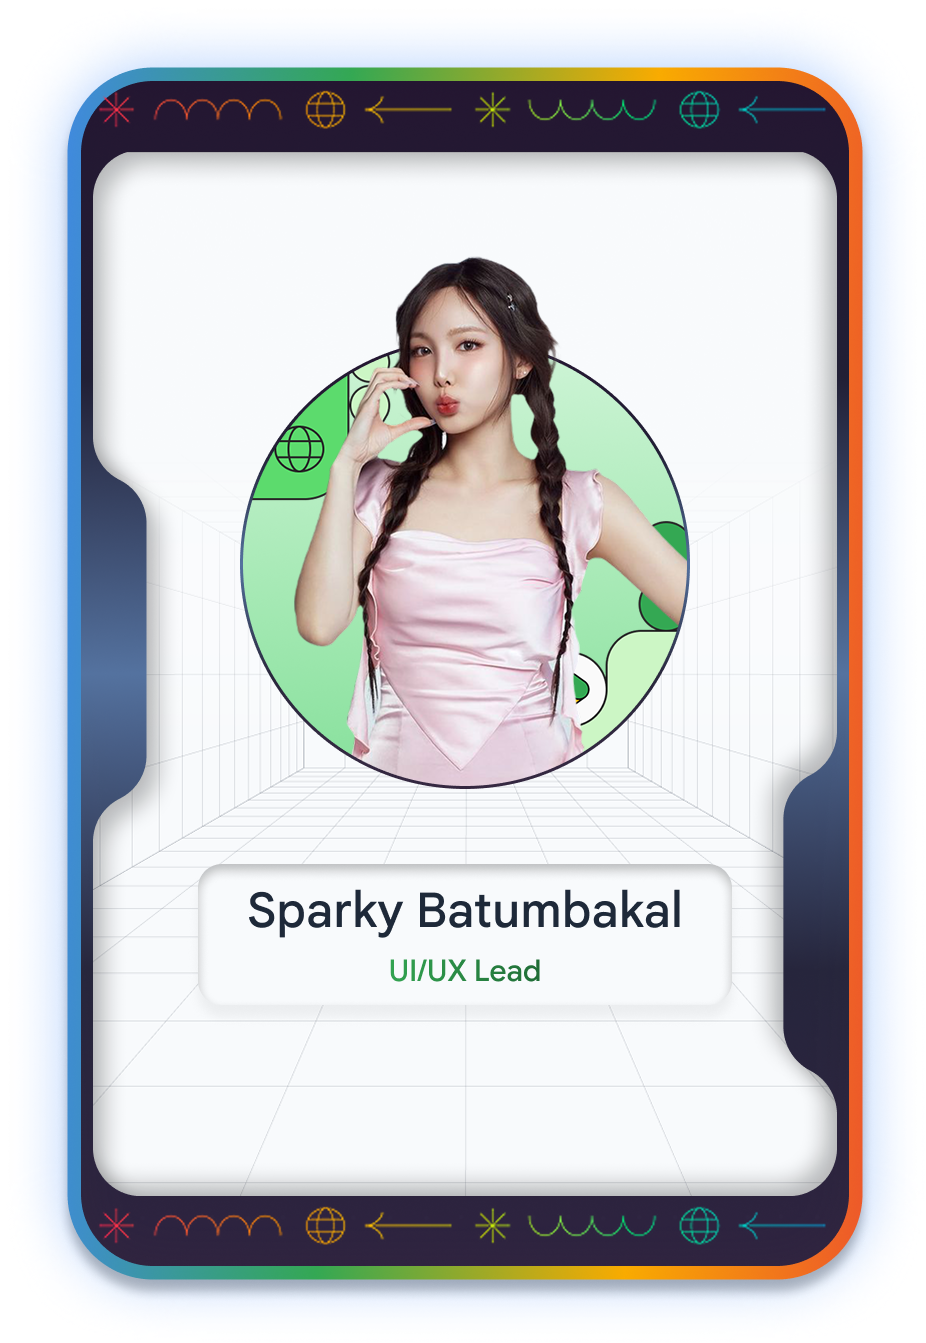
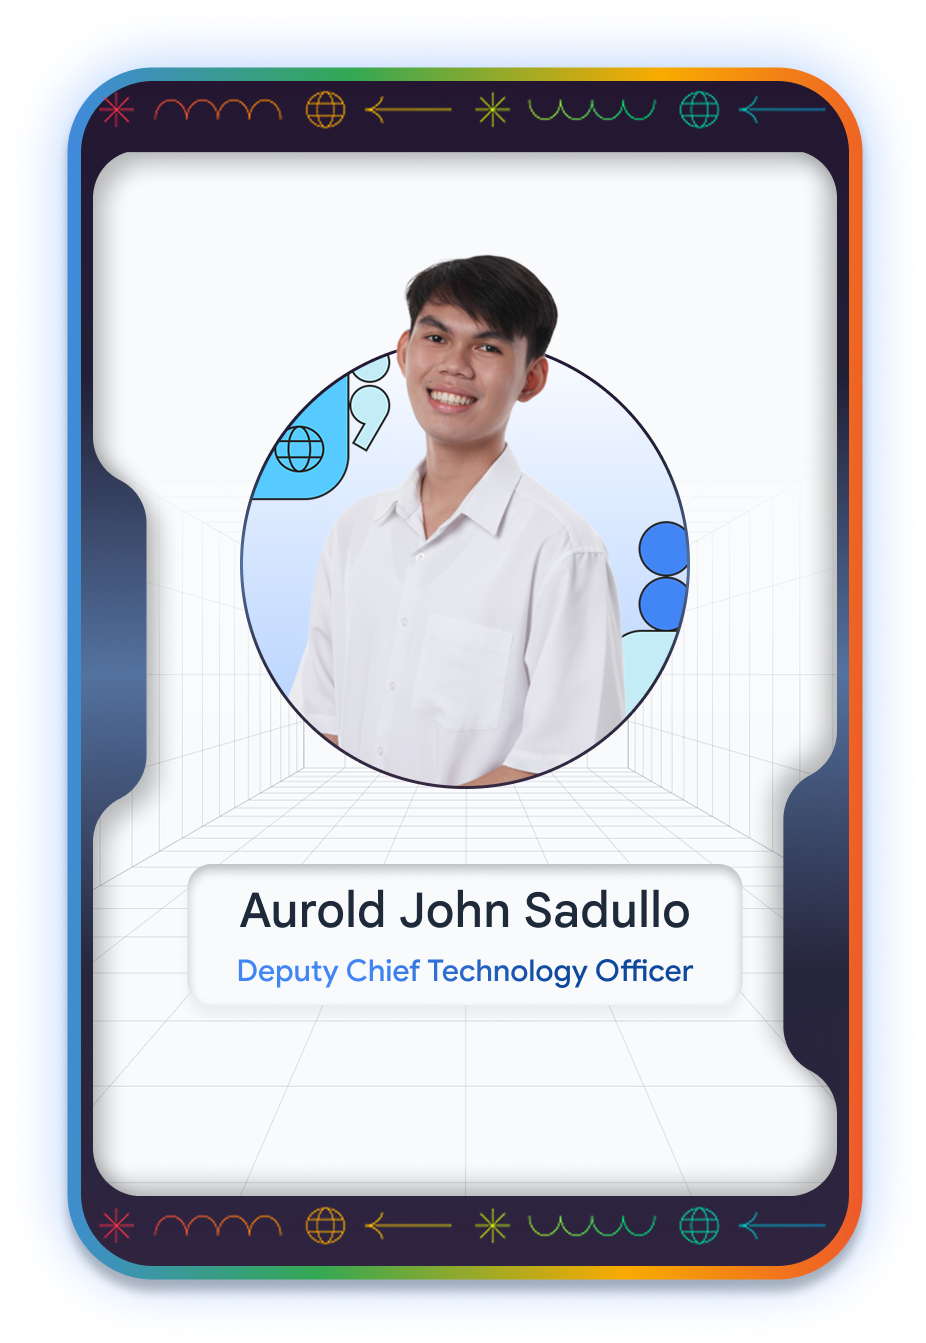
release v1.0 (#107)
* #75 updated coming soon page (#91)

closes #75

* #77 updated the footer (#89)

closes #77

* #66 updated the navbar (#86)

closes #66

* #78 button style (#92)

* #78 added transition between color change

* #78 smaller x-padding and darken shadow from top

* changed button text style

* removed bold text

* adjusted radial sheen

* #79 #75 #76 #77 adjustments (#93)

* #79 about page issues. note complete

* #79 glow on title on desktop. spacing from top. size of title on mobile

* fixed sparky awkward position on coming soon page

* id page sizing

* fixed sizing of card. fixed inset bg on name box. fixed bolding on info below

* fixed footer

* fixed card sizing again

* animation on comingsoon page

* deleted testing page

* #94 added collaborators section on about page (#95)

* #94 added project contributors on about page

* changed y-padding of top section on about page

closes #94

* changed some colors

* added more metadata

* fixed unique key on list error

* fixed (#100)

* refactor: update button styles and improve search form button accessibility (#102)

* feat: enhance SearchForm with dynamic input width adjustment and improved styling (#104)

* #105 contact page revisions and added more people on about page (#106)

* contact page revisions and added more people on the about page

* chief technology team

* error missing key prop

---------

diff --git a/src/components/SearchForm.tsx b/src/components/SearchForm.tsx
@@ -26,6 +26,21 @@ export default function SearchForm({ className }: SearchFormProps) {
   const [searchQuery, setSearchQuery] = useState("");
   const [userResult, setUserResult] = useState<UserResult | null>(null);
   const [loading, setLoading] = useState(false);
+  const [inputWidth, setInputWidth] = useState(0);
+
+  // Update input width when component mounts or window resizes
+  useEffect(() => {
+    const updateInputWidth = () => {
+      if (inputRef.current) {
+        setInputWidth(inputRef.current.offsetWidth);
+      }
+    };
+
+    updateInputWidth();
+    window.addEventListener("resize", updateInputWidth);
+
+    return () => window.removeEventListener("resize", updateInputWidth);
+  }, []);
 
   const handleSubmit = async (e: React.FormEvent) => {
     e.preventDefault();
@@ -89,15 +104,19 @@ export default function SearchForm({ className }: SearchFormProps) {
   return (
     <form
       ref={formRef}
-      className={`w-full px-4 flex max-w-sm sm:max-w-lg md:max-w-2xl lg:max-w-3xl mx-auto relative ${
-        className || ""
-      }`}
+      className={cn(
+        "w-full px-4 flex max-w-sm sm:max-w-lg md:max-w-2xl lg:max-w-3xl mx-auto relative",
+        className
+      )}
       onSubmit={handleSubmit}
     >
       {searchQuery && (
-        <div className="absolute px-4 left-0 top-13 md:top-15 lg:top-17 z-30">
-          <div className="w-[248px] sm:w-[361px] md:w-[497px] lg:w-xl p-5 bg-[#a6a4a5]/25 rounded-[10.14px] shadow-[0px_1px_1px_0px_rgba(0,0,0,0.25),inset_0px_1px_1px_0px_rgba(0,0,0,0.25),inset_0px_0px_1px_1px_rgba(0,0,0,0.25)] backdrop-blur-[25px] inline-flex flex-col justify-start items-start gap-[18px] overflow-hidden">
-            <div className="text-[#4285f4] text-normal md:text-md lg:text-lg font-bold leading-normal">
+        <div className="absolute left-4 top-13 md:top-15 lg:top-17 z-30">
+          <div
+            className="p-5 bg-[#a6a4a5]/25 rounded-[10.14px] shadow-[0px_1px_1px_0px_rgba(0,0,0,0.25),inset_0px_1px_1px_0px_rgba(0,0,0,0.25),inset_0px_0px_1px_1px_rgba(0,0,0,0.25)] backdrop-blur-[25px] inline-flex flex-col justify-start items-start gap-[18px] overflow-hidden"
+            style={{ width: inputWidth > 0 ? `${inputWidth}px` : "auto" }}
+          >
+            <div className="text-[#4285f4] text-xs sm:text-sm md:text-md lg:text-lg font-bold leading-normal">
               Your Digital ID Result
             </div>
 
@@ -116,15 +135,15 @@ export default function SearchForm({ className }: SearchFormProps) {
                 />
 
                 {loading ? (
-                  <div className="text-zinc-800 text-normal md:text-md lg:text-lg font-medium">
+                  <div className="text-zinc-800 text-xs sm:text-sm md:text-md lg:text-lg font-medium">
                     Loading...
                   </div>
                 ) : userResult ? (
-                  <div className="text-zinc-800 text-normal md:text-md lg:text-lg font-bold leading-normal">
+                  <div className="text-zinc-800 text-xs sm:text-sm md:text-md lg:text-lg font-bold leading-normal">
                     {userResult.name}
                   </div>
                 ) : (
-                  <div className="text-zinc-800 text-normal md:text-md lg:text-lg font-medium">
+                  <div className="text-zinc-800 text-xs sm:text-sm md:text-md lg:text-lg font-medium">
                     No user found
                   </div>
                 )}
@@ -139,11 +158,16 @@ export default function SearchForm({ className }: SearchFormProps) {
         ref={inputRef}
         required
         placeholder="Enter your email to find your Digital ID"
-        className="w-sm sm:w-md md:w-lg lg:w-xl z-10 py-2 px-4 pl-8 sm:py-2.5 sm:pl-10 md:py-3 md:pl-11 border border-gray-300 bg-white rounded-[10px] shadow-[0px_4px_4px_0px_rgba(0,0,0,0.05),inset_0px_2px_4px_0px_rgba(0,0,0,0.25)] text-neutral-500 text-[12px] sm:text-[13px] md:text-[15px] lg:text-lg font-normal leading-[15px] sm:leading-[16px] md:leading-[18px] placeholder:text-neutral-400 outline-none focus:ring-2 focus:ring-blue-400 transition-all duration-200"
+        className="flex-1 z-10 py-2 px-4 pl-8 sm:py-2.5 sm:pl-10 md:py-3 md:pl-11 border border-gray-300 bg-white rounded-[10px] shadow-[0px_4px_4px_0px_rgba(0,0,0,0.05),inset_0px_2px_4px_0px_rgba(0,0,0,0.25)] text-neutral-500 text-[12px] sm:text-[13px] md:text-[15px] lg:text-lg font-normal leading-[15px] sm:leading-[16px] md:leading-[18px] placeholder:text-neutral-400 outline-none focus:ring-2 focus:ring-blue-400 transition-all duration-200"
+        onLoad={() => {
+          if (inputRef.current) {
+            setInputWidth(inputRef.current.offsetWidth);
+          }
+        }}
       />
-      <Button type="submit" className="relative z-10 ml-2">
-        <BsStars />
-        <span className="ml-2 whitespace-nowrap text-[13px] md:text-[15px] lg:text-[17px]">
+      <Button htmlType="submit" className="relative z-10 ml-2 flex-shrink-0">
+        <BsStars size={20} />
+        <span className="ml-2 whitespace-nowrap hidden sm:block text-[13px] md:text-[15px] lg:text-[17px]">
           Search ID
         </span>
       </Button>

diff --git a/src/app/contacts/page.tsx b/src/app/contacts/page.tsx
@@ -55,8 +55,12 @@ const ContactsPage = () => {
               Stay Connected
             </h1>
 
-            <p className={cn(" text-base xl:text-xl -translate-y-3", 
-                "group-hover:tracking-wide transition-all duration-200")}>
+            <p
+              className={cn(
+                " text-base xl:text-xl -translate-y-3",
+                "group-hover:tracking-wide transition-all duration-200"
+              )}
+            >
               Got a question? Let Sparky help.
             </p>
           </div>
@@ -151,18 +155,18 @@ const Informations = () => {
       </div>
       <div className="w-full flex flex-col gap-4 mt-4">
         {DETAILS.map((detail, index) => (
-          <div key={index} className="flex flex-row items-start group w-fit">
-            <img
-              src={detail.image}
-              alt="sparky "
-              className="w-5 mx-2 group-hover:scale-120 transition-all duration-200"
-            />
-            <span className="flex flex-row items-start">
-              <div className="font-bold group-hover:text-gdg-orange-light transition-all duration-200">
-                {detail.title}:
+          <div key={index} className="flex flex-row items-start group ">
+            <div className="font-bold group-hover:text-gdg-orange-light transition-all duration-200 flex flex-row items-center gap-2">
+              <div className="w-5 aspect-square">
+                <img
+                  src={detail.image}
+                  alt="sparky "
+                  className="w-full h-auto object-cover group-hover:scale-120 transition-all duration-200"
+                />
               </div>
-              <div className="ml-2">{detail.description}</div>
-            </span>
+              <span>{detail.title}:</span>
+            </div>
+            <div className="ml-2">{detail.description}</div>
           </div>
         ))}
       </div>
@@ -222,10 +226,13 @@ const Form = () => {
   };
   return (
     <>
-      <form className={cn("w-full flex flex-col gap-4")} onSubmit={handleSubmit}>
+      <form
+        className={cn("w-full flex flex-col gap-4")}
+        onSubmit={handleSubmit}
+      >
         {/* Row 1: Name and Email side by side */}
         <div className="flex flex-row gap-4 w-full">
-          <div className="flex flex-col w-full">
+          <div className="flex flex-col w-full gap-2">
             <label className="text-text  text-sm ml-2">NAME</label>
             <input
               type="text"
@@ -238,7 +245,7 @@ const Form = () => {
               )}
             />
           </div>
-          <div className="flex flex-col w-full">
+          <div className="flex flex-col w-full gap-2">
             <label className="text-text  text-sm ml-2">EMAIL</label>
             <input
               type="email"
@@ -254,7 +261,7 @@ const Form = () => {
         </div>
 
         {/* Row 2: Subject */}
-        <div className="flex flex-col w-full">
+        <div className="flex flex-col w-full gap-2">
           <label className="text-text  text-sm ml-2">SUBJECT</label>
           <input
             type="text"
@@ -270,7 +277,7 @@ const Form = () => {
 
         {/* Row 3: Message */}
 
-        <div className="flex flex-col w-full">
+        <div className="flex flex-col w-full gap-2">
           <label className=" text-text  text-sm ml-2">MESSAGE</label>
           <textarea
             placeholder="Your Message"
@@ -310,9 +317,7 @@ const Form = () => {
 
         {success && (
           <>
-            <div className="w-full text-text ">
-              Message sent successfully
-            </div>
+            <div className="w-full text-text ">Message sent successfully</div>
           </>
         )}
 

diff --git a/src/app/about/page.tsx b/src/app/about/page.tsx
@@ -165,11 +165,21 @@ const AboutPage = () => {
                 {team.group}
               </div>
               {/* team members */}
-              <div className="  w-full  grid grid-cols-1 sm:grid-cols-2 md:grid-cols-2 lg:flex lg:flex-row lg:justify-center lg:grid-cols-none  gap-0">
-                {team.members.map((member, index) => (
-                  <MemberCard key={index} member={member} />
-                ))}
-              </div>
+              {index === 2 && (
+                <div className="  w-full  grid grid-cols-1 sm:grid-cols-2 md:grid-cols-2 lg:flex lg:flex-row lg:flex-wrap lg:justify-center lg:grid-cols-none  gap-0">
+                  {team.members.map((member, index) => (<div key={`helloworld${index}`} className=" lg:min-w-sm items-center flex justify-center">
+                    <MemberCard key={index} member={member} /></div>
+                  ))}
+                </div>
+              )}
+
+              {index !== 2 && (
+                <div className="  w-full  grid grid-cols-1 sm:grid-cols-2 md:grid-cols-2 lg:flex lg:flex-row lg:justify-center lg:grid-cols-none  gap-0">
+                  {team.members.map((member, index) => (
+                    <MemberCard key={index} member={member} />
+                  ))}
+                </div>
+              )}
             </div>
           ))}
         </div>
@@ -343,9 +353,17 @@ const CONTRIBUTORS: TeamType[] = [
     ],
   },
   {
-    group: "Technology Officers",
+    group: "Executive Technology Team",
     textColor: "green",
     members: [
+      {
+        name: "Carlos Jerico Dela Torre",
+        image: "/contributors/cards/jerico.png",
+        role: "Chief Technology Officer",
+        fb: "https://www.facebook.com/2iLiTE/",
+        ig: "https://www.instagram.com/__rikin__/",
+        linkedin: "https://www.linkedin.com/in/delatorrecj/",
+      },
       {
         name: "Nyzel Cayat",
         image: "/contributors/cards/nyzel.png",
@@ -357,12 +375,20 @@ const CONTRIBUTORS: TeamType[] = [
         role: "Deputy Chief Technology Officer",
       },
       {
-        name: "Carlos Jerico Dela Torre",
-        image: "/contributors/cards/jerico.png",
-        role: "Chief Technology Officer",
-        fb: "https://www.facebook.com/2iLiTE/",
-        ig: "https://www.instagram.com/__rikin__/",
-        linkedin: "https://www.linkedin.com/in/delatorrecj/",
+        name: "Randy Carlo Lorenzo",
+        image: "/contributors/cards/randy.png",
+        role: "Chapter Lead & President",
+        fb: "https://www.facebook.com/randycarlo.lorenzo",
+        ig: "https://www.instagram.com/randy_lrnz/",
+        linkedin: "https://www.linkedin.com/in/randycarlolorenzo/ ",
+      },
+      {
+        name: "Shunrenn Locaylocay",
+        image: "/contributors/cards/shunrenn.png",
+        role: "Chief Executive Officer",
+        fb: "https://www.facebook.com/shun.locs ",
+        ig: "https://www.instagram.com/shun_locs/ ",
+        linkedin: "https://ph.linkedin.com/in/shunrenn-locaylocay/",
       },
     ],
   },

diff --git a/src/components/Button.tsx b/src/components/Button.tsx
@@ -82,7 +82,7 @@ export default function Button({
       onMouseLeave={handleMouseLeave}
       onClick={handleOnClick}
       className={cn(
-        "group relative flex items-center justify-center rounded-[8px] px-4 py-2.5 text-white transition-all duration-300 ease-out select-none overflow-hidden text-sm cursor-pointer",
+        "group relative flex items-center justify-center rounded-[8px] px-4 py-2.5 text-white transition duration-300 ease-out select-none overflow-hidden text-sm cursor-pointer",
         className
       )}
       style={{
